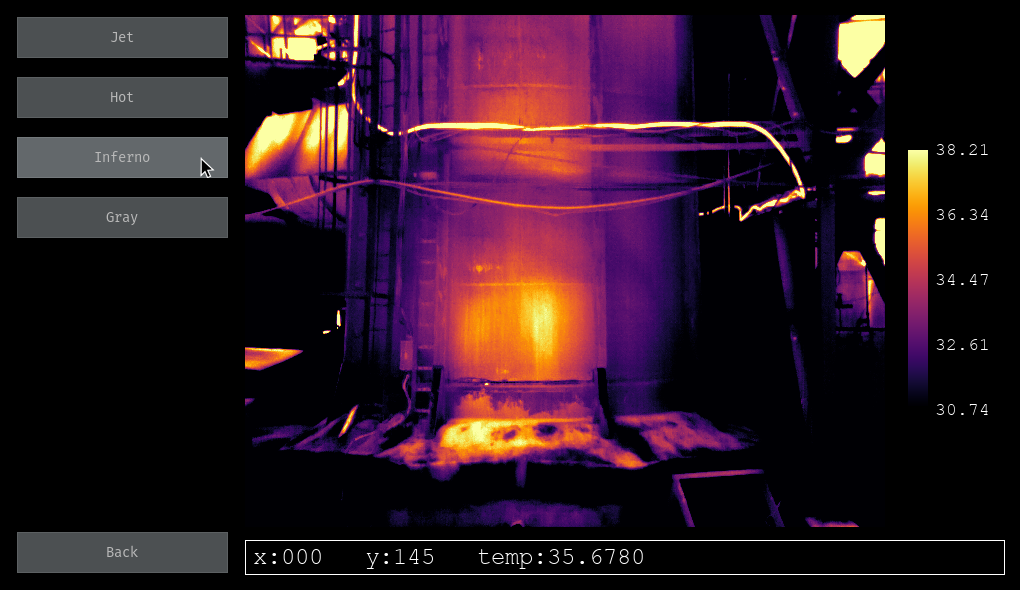
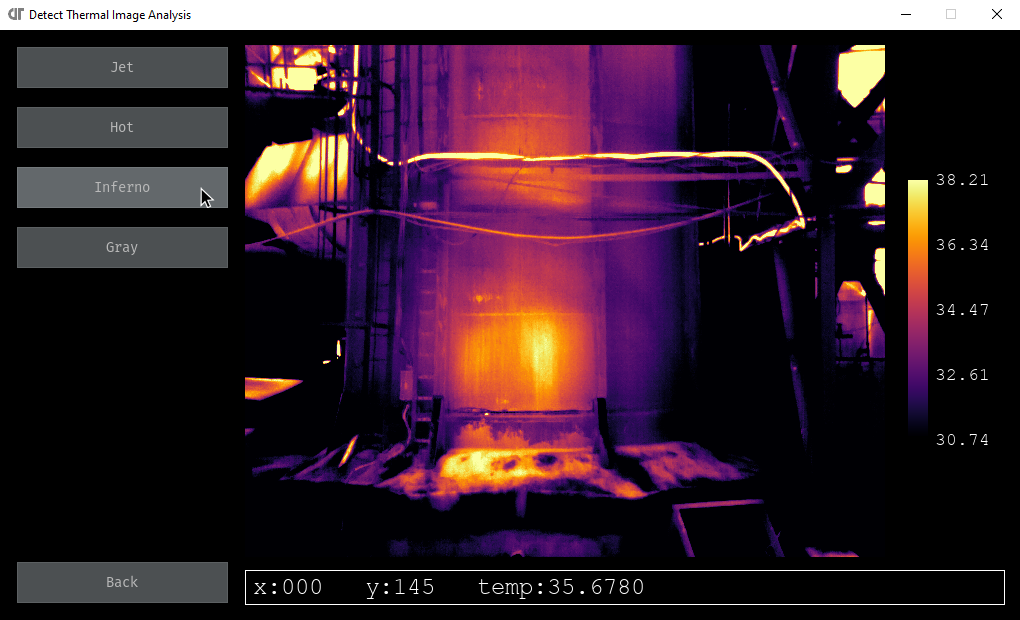
fixed errors mentioned in PR

diff --git a/main.py b/main.py
@@ -1,13 +1,16 @@
+"""GUI application for thermal image analysis."""
 import os
 import pickle
+import sys
 from tkinter.messagebox import showwarning
+from PIL.Image import new
 
 import numpy as np
 import pygame
 import pygame_gui as pygui
 from scipy.ndimage.interpolation import zoom
-
 from thermal_base.thermal_base import ThermalImage, ThermalImageHelpers
+
 from utils import WindowHandler, openImage, saveImage
 
 pygame.init()
@@ -16,8 +19,14 @@ NEW_FILE = False
 
 
 class Manager(pygui.UIManager):
+    """Class for manager.
+
+    A manager is a set of menu buttons and descriptions.
+    A manager is assigned to each page of the application.
+    """
     def __init__(self, buttons, textbox=None, fields=None):
-        super(Manager, self).__init__(WINDOW_SIZE)
+        """Initilizer for manager."""
+        super().__init__(WINDOW_SIZE)
         self.buttons = [
             (pygui.elements.UIButton(relative_rect=pygame.Rect(pos, size), text=text, manager=self), func)
             for pos, size, text, func in buttons
@@ -40,16 +49,18 @@ class Manager(pygui.UIManager):
             ]
 
     def process_events(self, event):
+        """Process button presses."""
         if event.type == pygame.USEREVENT:
             if event.user_type == pygui.UI_BUTTON_PRESSED:
                 for button, func in self.buttons:
                     if event.ui_element == button:
                         func()
 
-        super(Manager, self).process_events(event)
+        super().process_events(event)
 
 
 class Window:
+    """Class that handles the main window."""
     fonts = [
         pygame.font.SysFont("monospace", 20),
         pygame.font.SysFont("monospace", 24),
@@ -57,11 +68,12 @@ class Window:
     ]
 
     cursors = [pygame.image.load("./assets/cursors/pointer.png"), pygame.image.load("./assets/cursors/crosshair.png")]
-    logo = pygame.transform.scale(pygame.image.load("./assets/DTIcon.png"), (100, 100))
+    logo = pygame.transform.scale(pygame.image.load("./assets/DTlogo.png"), (100, 100))
     clip = lambda x, a, b: a if x < a else b if x > b else x
 
     @staticmethod
     def renderText(surface, text, location):
+        """Render text at a given location."""
         whitetext = Window.fonts[2].render(text, 1, (255, 255, 255))
         Window.fonts[0].set_bold(True)
         blacktext = Window.fonts[2].render(text, 1, (0, 0, 0))
@@ -76,10 +88,11 @@ class Window:
         surface.blit(whitetext, textrect)
 
     def __init__(self, thermal_image=None, filename=None):
+        """Initializer for the main window."""
         self.exthandler = WindowHandler()
         if thermal_image is not None:
             mat = thermal_image.thermal_np.astype(np.float32)
-        
+
             if mat.shape != (512, 640):
                 y0, x0 = mat.shape
                 mat = zoom(mat, [512 / y0, 640 / x0])
@@ -189,7 +202,12 @@ class Window:
                 ((15, 470), (215, 45), "Reset", lambda: self.work("emissivity", "reset")),
                 ((15, 530), (215, 45), "Back", lambda: self.changeMode("main")),
             ],
-            textbox=((15, 15), (215, -1), "Select region, enter values and press continue"),
+            textbox=(
+                (15, 15),
+                (215, -1),
+                "Select region, enter values and press continue. Click to mark vertices."
+                    "Press Ctrl and click to close the selection",
+            ),
             fields=[
                 ((15, 165), (215, 45), "Emissivity:"),
                 ((15, 240), (215, 45), "Reflected Temp.:"),
@@ -204,6 +222,7 @@ class Window:
         self.background.fill((0, 0, 0))
 
     def changeMode(self, mode):
+        """Change mode."""
         # Mode change - reset handler
         if self.mode == "line":
             if mode in ("main", "line"):
@@ -217,7 +236,7 @@ class Window:
         self.mode = mode
 
     def work(self, mode, *args):
-
+        """Work based on mode."""
         if mode == "reset":
             # Resetting overlays and plots
             self.overlays = pygame.Surface((WINDOW_SIZE[0] - 245, 512), pygame.SRCALPHA)
@@ -270,6 +289,8 @@ class Window:
                 xmax = max(x_coords)
                 ymin = min(y_coords)
                 ymax = max(y_coords)
+                if xmin == xmax or ymin == ymax:
+                    return
                 self.boxNum += 1
                 chunk = self.mat_emm[ymin:ymax, xmin:xmax]
                 self.exthandler.addToTable([f"a{self.boxNum}", np.min(chunk), np.max(chunk), np.mean(chunk)])
@@ -284,7 +305,7 @@ class Window:
             self.cbarVals = [minVal + i * delVal / 4 for i in range(5)][::-1]
 
             cbar = np.row_stack(20 * (np.arange(256),))[:, ::-1].astype(np.float32)
-            
+
             self.image = ThermalImageHelpers.cmap_matplotlib(self.mat, args[0])
             cbar = ThermalImageHelpers.cmap_matplotlib(cbar, args[0])
 
@@ -293,7 +314,7 @@ class Window:
             self.imsurf.blit(pygame.surfarray.make_surface(cbar[..., ::-1]), (663, 85))
             for i, val in enumerate(self.cbarVals):
                 self.imsurf.blit(self.fonts[0].render(f"{val:.1f}", 1, (255, 255, 255)), (690, 75 + i * 65))
-            self.imsurf.blit(self.fonts[0].render(u"\N{DEGREE SIGN}" + "C", 1, (255, 255, 255)), (660, 60))
+            self.imsurf.blit(self.fonts[0].render("\N{DEGREE SIGN}" + "C", 1, (255, 255, 255)), (660, 60))
             self.imsurf.blit(self.logo, (658, 405))
 
         if mode == "scale":
@@ -345,6 +366,7 @@ class Window:
             self.work("scale", "reset")
 
     def process(self, event):
+        """Process input event."""
         self.mx, self.my = self.cursor_rect.center = pygame.mouse.get_pos()
         self.cx = Window.clip(self.mx, 245, 884)
         self.cy = Window.clip(self.my, 15, 526)
@@ -379,9 +401,11 @@ class Window:
                     self.selectionComplete = True
 
     def update(self, time_del):
+        """Update events."""
         self.managers[self.mode].update(time_del)
 
     def draw(self, surface):
+        """Draw contents on screen."""
         surface.blit(self.background, (0, 0))
         surface.blit(self.imsurf, (245, 15))
         surface.blit(self.overlays, (245, 15))
@@ -432,7 +456,8 @@ class Window:
 if __name__ == "__main__":
     pygame.mouse.set_visible(False)
 
-    pygame.display.set_caption("Thermo tools")
+    pygame.display.set_caption("Detect Thermal Image Analysis")
+    pygame.display.set_icon(pygame.image.load("./assets/icon_gray.png"))
     surface = pygame.display.set_mode(WINDOW_SIZE)
     surface.blit(Window.fonts[2].render("Loading...", 1, (255, 255, 255)), (460, 275))
     pygame.display.update()
@@ -452,20 +477,25 @@ if __name__ == "__main__":
                 surface.fill((0, 0, 0))
                 surface.blit(Window.fonts[2].render("Loading...", 1, (255, 255, 255)), (460, 275))
                 pygame.display.update()
-                # try:
-                if filename.split(".")[-1] == "pkl":
-                    window = Window(filename=filename)
-                else:
-                    try:
-                        image = ThermalImage(filename, camera_manufacturer="FLIR")
-                    except:
-                        image = ThermalImage(filename, camera_manufacturer="DJI")
-                    window = Window(thermal_image=image)
-                # except Exception as err:
-                #     print(f"Exception: {err}")
-                #     showwarning(title="Error", message="Invalid file selected.")
+                newwindow = None
+                try:
+                    if filename.split(".")[-1] == "pkl":
+                        newwindow = Window(filename=filename)
+                    else:
+                        try:
+                            image = ThermalImage(filename, camera_manufacturer="FLIR")
+                        except Exception:
+                            image = ThermalImage(filename, camera_manufacturer="DJI")
+                        newwindow = Window(thermal_image=image)
+                except Exception as err:
+                    print(f"Exception: {err}")
+                    showwarning(title="Error", message="Invalid file selected.")
+                if newwindow is not None:
+                    if window is not None:
+                        window.exthandler.killThreads()
+                    window = newwindow
             if not window:
-                exit(1)
+                sys.exit(0)
             NEW_FILE = False
 
         for event in pygame.event.get():

diff --git a/utils.py b/utils.py
@@ -1,3 +1,4 @@
+"""Utilities for handling backend functions."""
 import csv
 import pickle
 import threading
@@ -6,22 +7,27 @@ from tkinter import Tk, filedialog, messagebox, ttk
 import numpy as np
 import pygame
 from matplotlib import figure
-from matplotlib.backends.backend_tkagg import FigureCanvasTkAgg, NavigationToolbar2Tk
+from matplotlib.backends.backend_tkagg import (FigureCanvasTkAgg,
+                                               NavigationToolbar2Tk)
 from PIL import Image
 
 
 class SaveData:
+    """Empty data class."""
     pass
 
 
 class TableView(threading.Thread):
+    """Tkinter thread constituting the table."""
     def __init__(self):
+        """Initializer for table thread."""
         threading.Thread.__init__(self)
         self.start()
         self.initialized = False
         self.data = []
 
     def addRow(self, entry):
+        """Add row to table."""
         while not self.initialized:
             pass
         entry[1:] = [round(ent, 3) for ent in entry[1:]]
@@ -29,6 +35,7 @@ class TableView(threading.Thread):
         self.data.append(entry)
 
     def writeToFile(self, filename):
+        """Write table values to file."""
         with open(filename, "w") as f:
             writer = csv.writer(f, delimiter=",")
             writer.writerow(["Element", "Min", "Max", "Average"])
@@ -36,10 +43,12 @@ class TableView(threading.Thread):
                 writer.writerow(data)
 
     def killTable(self):
+        """Kill table thread."""
         self.root.quit()
         self.root.update()
 
     def run(self):
+        """Run."""
         self.root = Tk()
         self.root.protocol("WM_DELETE_WINDOW", lambda: None)
         self.root.title("Table")
@@ -71,19 +80,24 @@ class TableView(threading.Thread):
 
 
 class Figure(threading.Thread):
+    """Matplotlib threading using tkinter."""
     def __init__(self, plots):
+        """Figure thread initializer."""
         threading.Thread.__init__(self)
         self.plots = plots
         self.start()
 
     def killFigure(self):
+        """Kill figure thread."""
         self.root.quit()
         self.root.update()
 
     def saveFig(self, filename):
+        """Save figure."""
         self.fig.savefig(filename)
 
     def run(self):
+        """Run."""
         self.root = Tk()
         self.root.protocol("WM_DELETE_WINDOW", lambda: None)
         self.root.title("Plot")
@@ -108,7 +122,9 @@ class Figure(threading.Thread):
 
 
 class WindowHandler:
+    """Handles external(graphs/tables) windows."""
     def __init__(self):
+        """Initializer for window handler."""
         self.mainTable = None
         self.mainFigure = None
         self.plots = []
@@ -119,6 +135,7 @@ class WindowHandler:
             self.killThreads()
 
     def killThreads(self):
+        """Kill all running threads."""
         if self.mainTable:
             self.mainTable.killTable()
             self.mainTable.join()
@@ -128,17 +145,19 @@ class WindowHandler:
         self.killed = True
 
     def addToTable(self, entry):
+        """Add entry to table."""
         if self.mainTable is None:
             self.mainTable = TableView()
         self.mainTable.addRow(entry)
 
     def loadGraph(self, plots_in):
+        """Load the graph window."""
         self.plots = plots_in
         if self.plots:
             self.mainFigure = Figure(self.plots)
 
     def linePlot(self, mat, label, startPoint, endPoint, resolution=100, interpolation="bilinear"):
-
+        """Plot line graph."""
         direcion = endPoint - startPoint
         distance = np.linalg.norm(direcion)
         distances = []
@@ -170,23 +189,15 @@ class WindowHandler:
 
 
 def saveImage(window):
+    """Save current image."""
     imageSurface = window.imsurf
     overlays = window.overlays
     exthandler = window.exthandler
     Tk().withdraw()
-    file = filedialog.asksaveasfile()
+    file = filedialog.asksaveasfile(filetypes=[('PNG Image', '*.png')], defaultextension=".png")
 
     if file:
-
-        imgdata = pygame.surfarray.pixels3d(imageSurface).astype(np.uint8)
-        imgdata = np.swapaxes(imgdata, 0, 1)
-
         filename = file.name
-        try:
-            Image.fromarray(imgdata).save(filename)
-        except ValueError:
-            filename += ".png"
-            Image.fromarray(imgdata).save(filename)
 
         if messagebox.askquestion("Save options", "Do you want to save with the lines?") == "yes":
             imageSurface.blit(overlays, (0, 0))
@@ -210,8 +221,12 @@ def saveImage(window):
             with open(".".join(filename.split(".")[:-1]) + ".pkl", "wb") as f:
                 pickle.dump(data, f, -1)
 
+        imgdata = pygame.surfarray.pixels3d(imageSurface).astype(np.uint8)
+        imgdata = np.swapaxes(imgdata, 0, 1)
+        Image.fromarray(imgdata).save(filename)
 
 def openImage():
+    """Open new image."""
     Tk().withdraw()
-    filename = filedialog.askopenfilename()
+    filename = filedialog.askopenfilename(title="Open Thermal Image")
     return filename

diff --git a/README.md b/README.md
@@ -3,6 +3,8 @@ A tool for analyzing and annotating thermal images.
  - `main.py` contains code for GUI and canvas tools.
  - `utils.py` contains code for auxiliary functions.
 
+[![Quality check](https://github.com/detecttechnologies/Thermal_Image_Analysis/actions/workflows/qualitycheck.yml/badge.svg)](https://github.com/detecttechnologies/Thermal_Image_Analysis/actions)
+
 ## Features
 
 <p align="center"><img src="assets/images/main.png" /><br/>Main menu</p>
@@ -44,7 +46,7 @@ Change reflected apparent temperature and emissivity of marked region.
 Image can be saved with or without markings, plots and values. Custom savefile(.pkl) saves all data and can be used to revive the previous session.
 
 ## Installation
- - Run installation once with `$ pip install -r requirements.txt`
+ - Run installation once with `pip install -r requirements.txt`
  - Install [exiftool](https://exiftool.org/install.html)
 
 ## Usage
